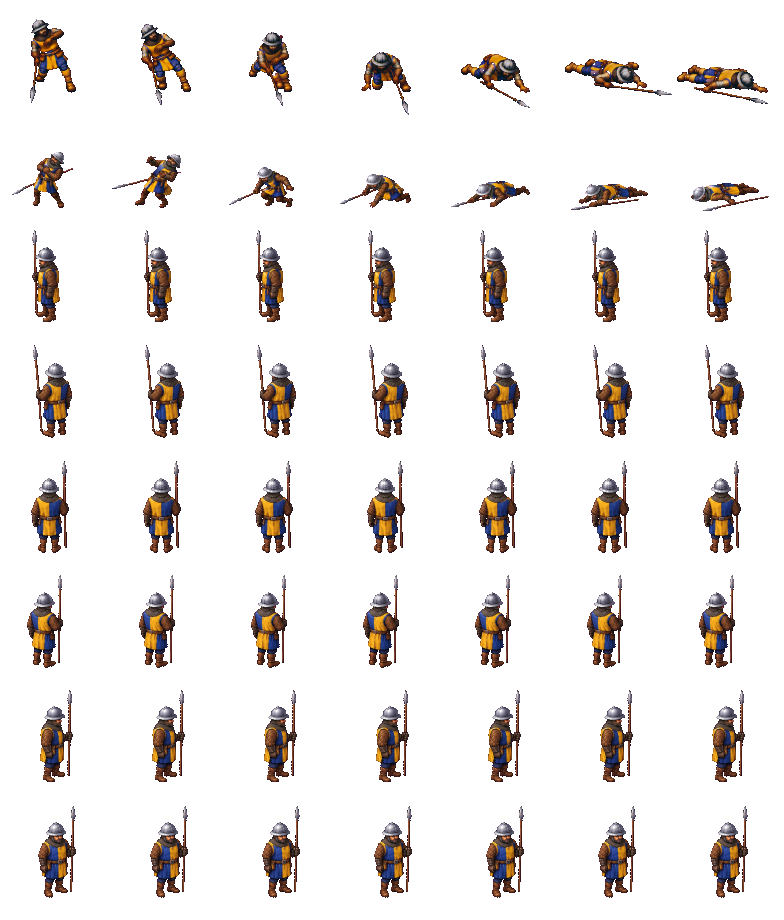
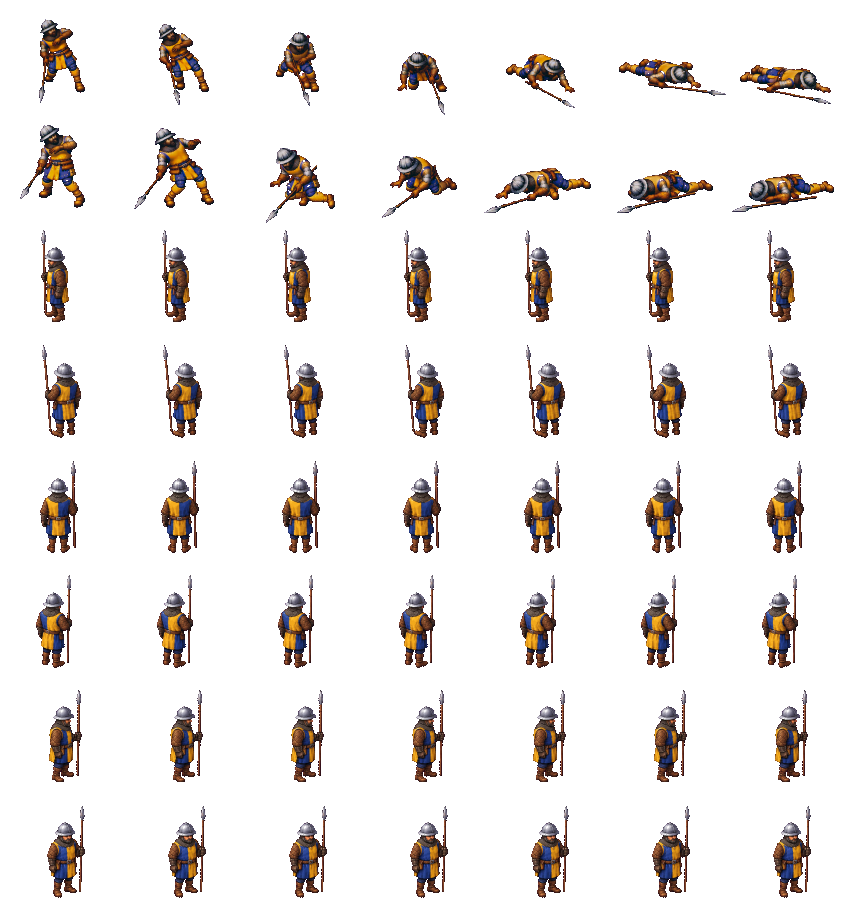
Vallen ZW van de speerman
Vel 19 was meteen goed: voorover naar linksonder, de speer naast hem. Het vervangt het oude vel van ZW; de rest blijft
pixel voor pixel hetzelfde.

diff --git a/beelden/beschrijving.js b/beelden/beschrijving.js
@@ -613,11 +613,11 @@
        "fps": 8,
        "herhaal": false,
        "cel": [
-        112,
+        121,
         115
        ],
        "anker": [
-        49,
+        58,
         92
        ]
       }

diff --git a/ontwerp/werklijst.md b/ontwerp/werklijst.md
@@ -32,7 +32,7 @@ de pijplijn van vraag 180 (Q, f; niet in de cloud). **Bezig in sessie `lokaal-da
 **nieuwe weg** (Marcel, 21 okt: "Ok, dan zullen we moeten inventariseren welke gebouwen en poppetjes we nodig hebben. Dan
 kunnen we de andere generator deze 1 voor 1 laten maken. Jij moet dan zorgen dat ze passend worden in het spel"): de
 generator van zijn plaat maakt de bron, wij maken het passend; eerst de inventaris (`beelden-van-de-generator.md`). De
-speerman staat en loopt in het spel in acht richtingen (21 okt, de masterprompt); de aanval in alle acht richtingen en vallen Z staan erin; **wacht op Marcel**: vel 19 tot 25 (vallen) (in
+speerman staat en loopt in het spel in acht richtingen (21 okt, de masterprompt); de aanval in alle acht richtingen en vallen Z en ZW staan erin; **wacht op Marcel**: vel 20 tot 25 (vallen) (in
 het nieuwe gesprek, `beelden-van-de-generator.md`), en eventueel 3 en 4 opnieuw (de punt naar achteren).
 
 **Marcels acht punten van 20 okt** (R, vraag 182 tot 189: egaliseren met de schop, de maat van de huizen, dragers, een

diff --git a/ontwerp/beelden-van-de-generator.md b/ontwerp/beelden-van-de-generator.md
@@ -333,7 +333,8 @@ generator van 1,7 MB; op spelmaat is het verschil ruis) en lopen in het spel. Wa
 - **Vel 18, vallen Z** (22 okt): goed (geraakt, wankelen, op de knieën, voorover, en liggen met de speer naast zich),
   maar de liggende beelden steeds verder uit elkaar: met gelijke vakken kreeg één beeld twee mannen. Staan de beelden los,
   dan neemt `generator.cjs` ze nu zoals ze staan (`losseBeelden`), en wie valt, zakt op zijn plek in elkaar
-  (`anker: 'lijf'`: het midden van zijn lijf op het anker, het laagste van zijn lijf op de grond). Bij N (vel 14), van achteren, speelt hetzelfde: dan de punt
+  (`anker: 'lijf'`: het midden van zijn lijf op het anker, het laagste van zijn lijf op de grond).
+- **Vel 19, vallen ZW** (22 okt): meteen goed, voorover naar linksonder, de speer naast hem. Vervangt het oude vel van ZW. Bij N (vel 14), van achteren, speelt hetzelfde: dan de punt
   omhoog, van de kijker af.
 
 ## De inventaris
